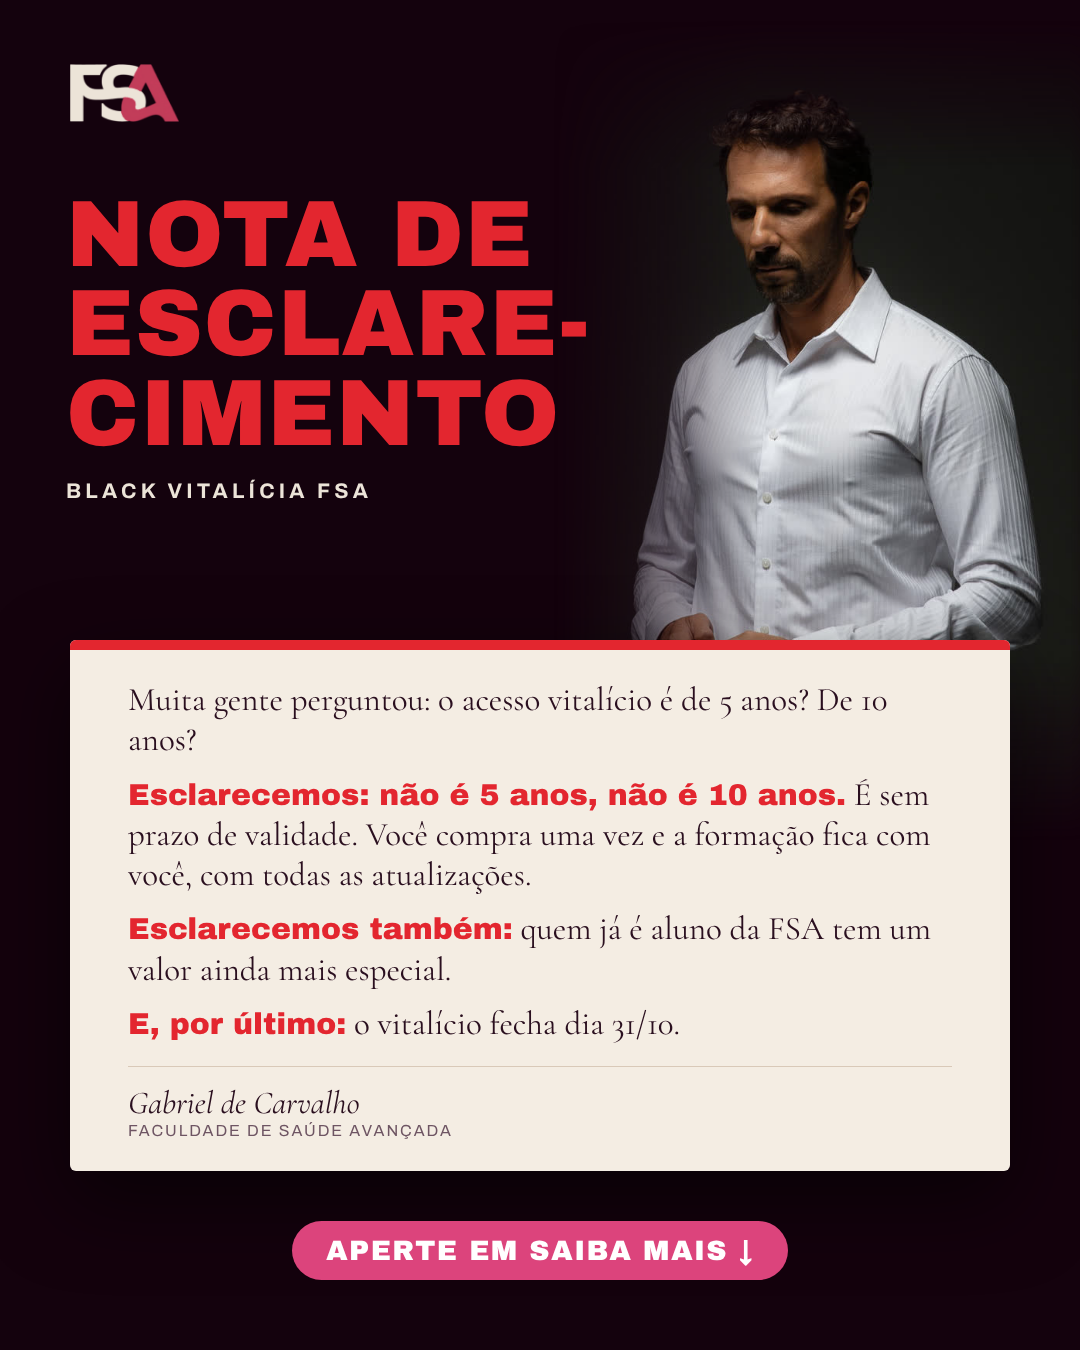
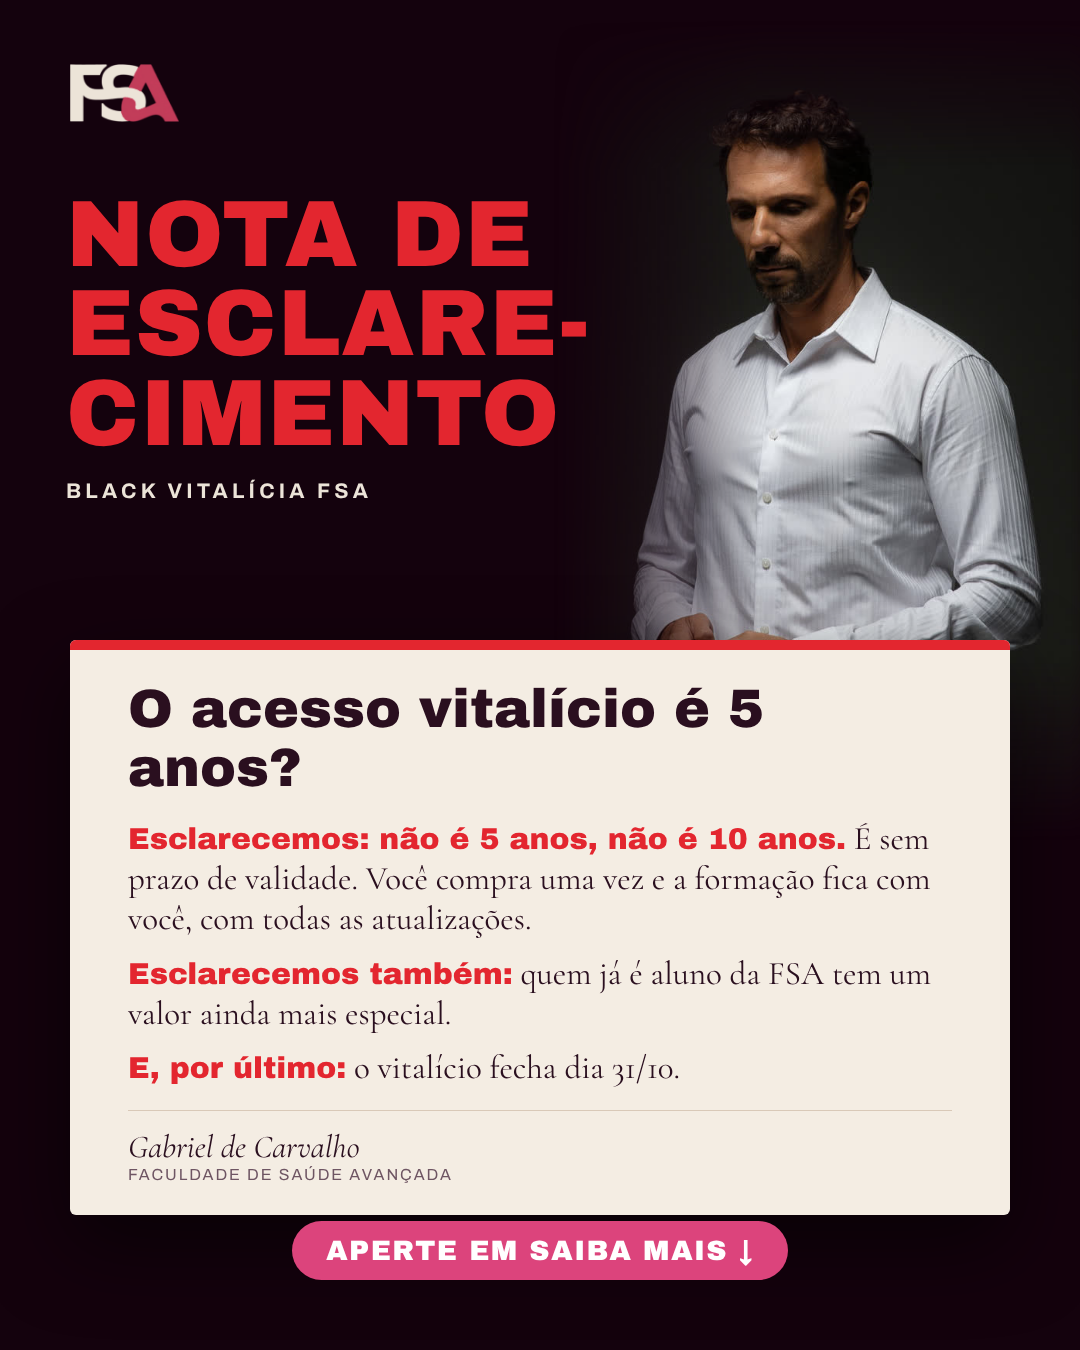
Nota anuncio: so a pergunta, maior
Claude-Session: https://claude.ai/code/session_01KgesPtUiFaTyPjQzLX5smy

diff --git a/fsa/campanha-black/nota-oficial/esclarecimento-anuncio.html b/fsa/campanha-black/nota-oficial/esclarecimento-anuncio.html
@@ -13,6 +13,7 @@ html,body{margin:0}
 .papel{position:absolute;left:70px;right:70px;top:640px;background:#f4ede3;border-radius:6px;padding:40px 58px 32px;box-sizing:border-box;color:#2a0f1f;box-shadow:0 30px 80px rgba(0,0,0,.55)}
 .papel:before{content:"";position:absolute;left:0;right:0;top:0;height:10px;background:#E3262F;border-radius:6px 6px 0 0}
 p{font-family:Corm;font-size:33px;line-height:1.22;margin:0 0 14px}
+.perg{font-family:ArchB;font-size:54px;line-height:1.1;color:#2a0f1f;margin-bottom:20px}
 p b{font-family:ArchB;font-weight:normal;font-size:30px;color:#E3262F}
 .ass{margin-top:22px;border-top:1px solid #d9c9b8;padding-top:16px;display:flex;justify-content:space-between;align-items:flex-end}
 .ass .n{font-family:CormI;font-size:32px}.ass .c{font-family:Arch;font-size:16px;letter-spacing:.12em;text-transform:uppercase;color:#6e5563}
@@ -24,7 +25,7 @@ p b{font-family:ArchB;font-weight:normal;font-size:30px;color:#E3262F}
  <img class="logo" src="logo-fsa-escuro.png">
  <div class="tit"><div class="a">NOTA DE<br>ESCLARE&shy;CIMENTO</div><div class="b">Black Vitalícia FSA</div></div>
  <div class="papel">
-  <p>Muita gente perguntou: o acesso vitalício é de 5 anos? De 10 anos?</p>
+  <p class="perg">O acesso vitalício é 5 anos?</p>
   <p><b>Esclarecemos: não é 5 anos, não é 10 anos.</b> É sem prazo de validade. Você compra uma vez e a formação fica com você, com todas as atualizações.</p>
   <p><b>Esclarecemos também:</b> quem já é aluno da FSA tem um valor ainda mais especial.</p>
   <p><b>E, por último:</b> o vitalício fecha dia 31/10.</p>
